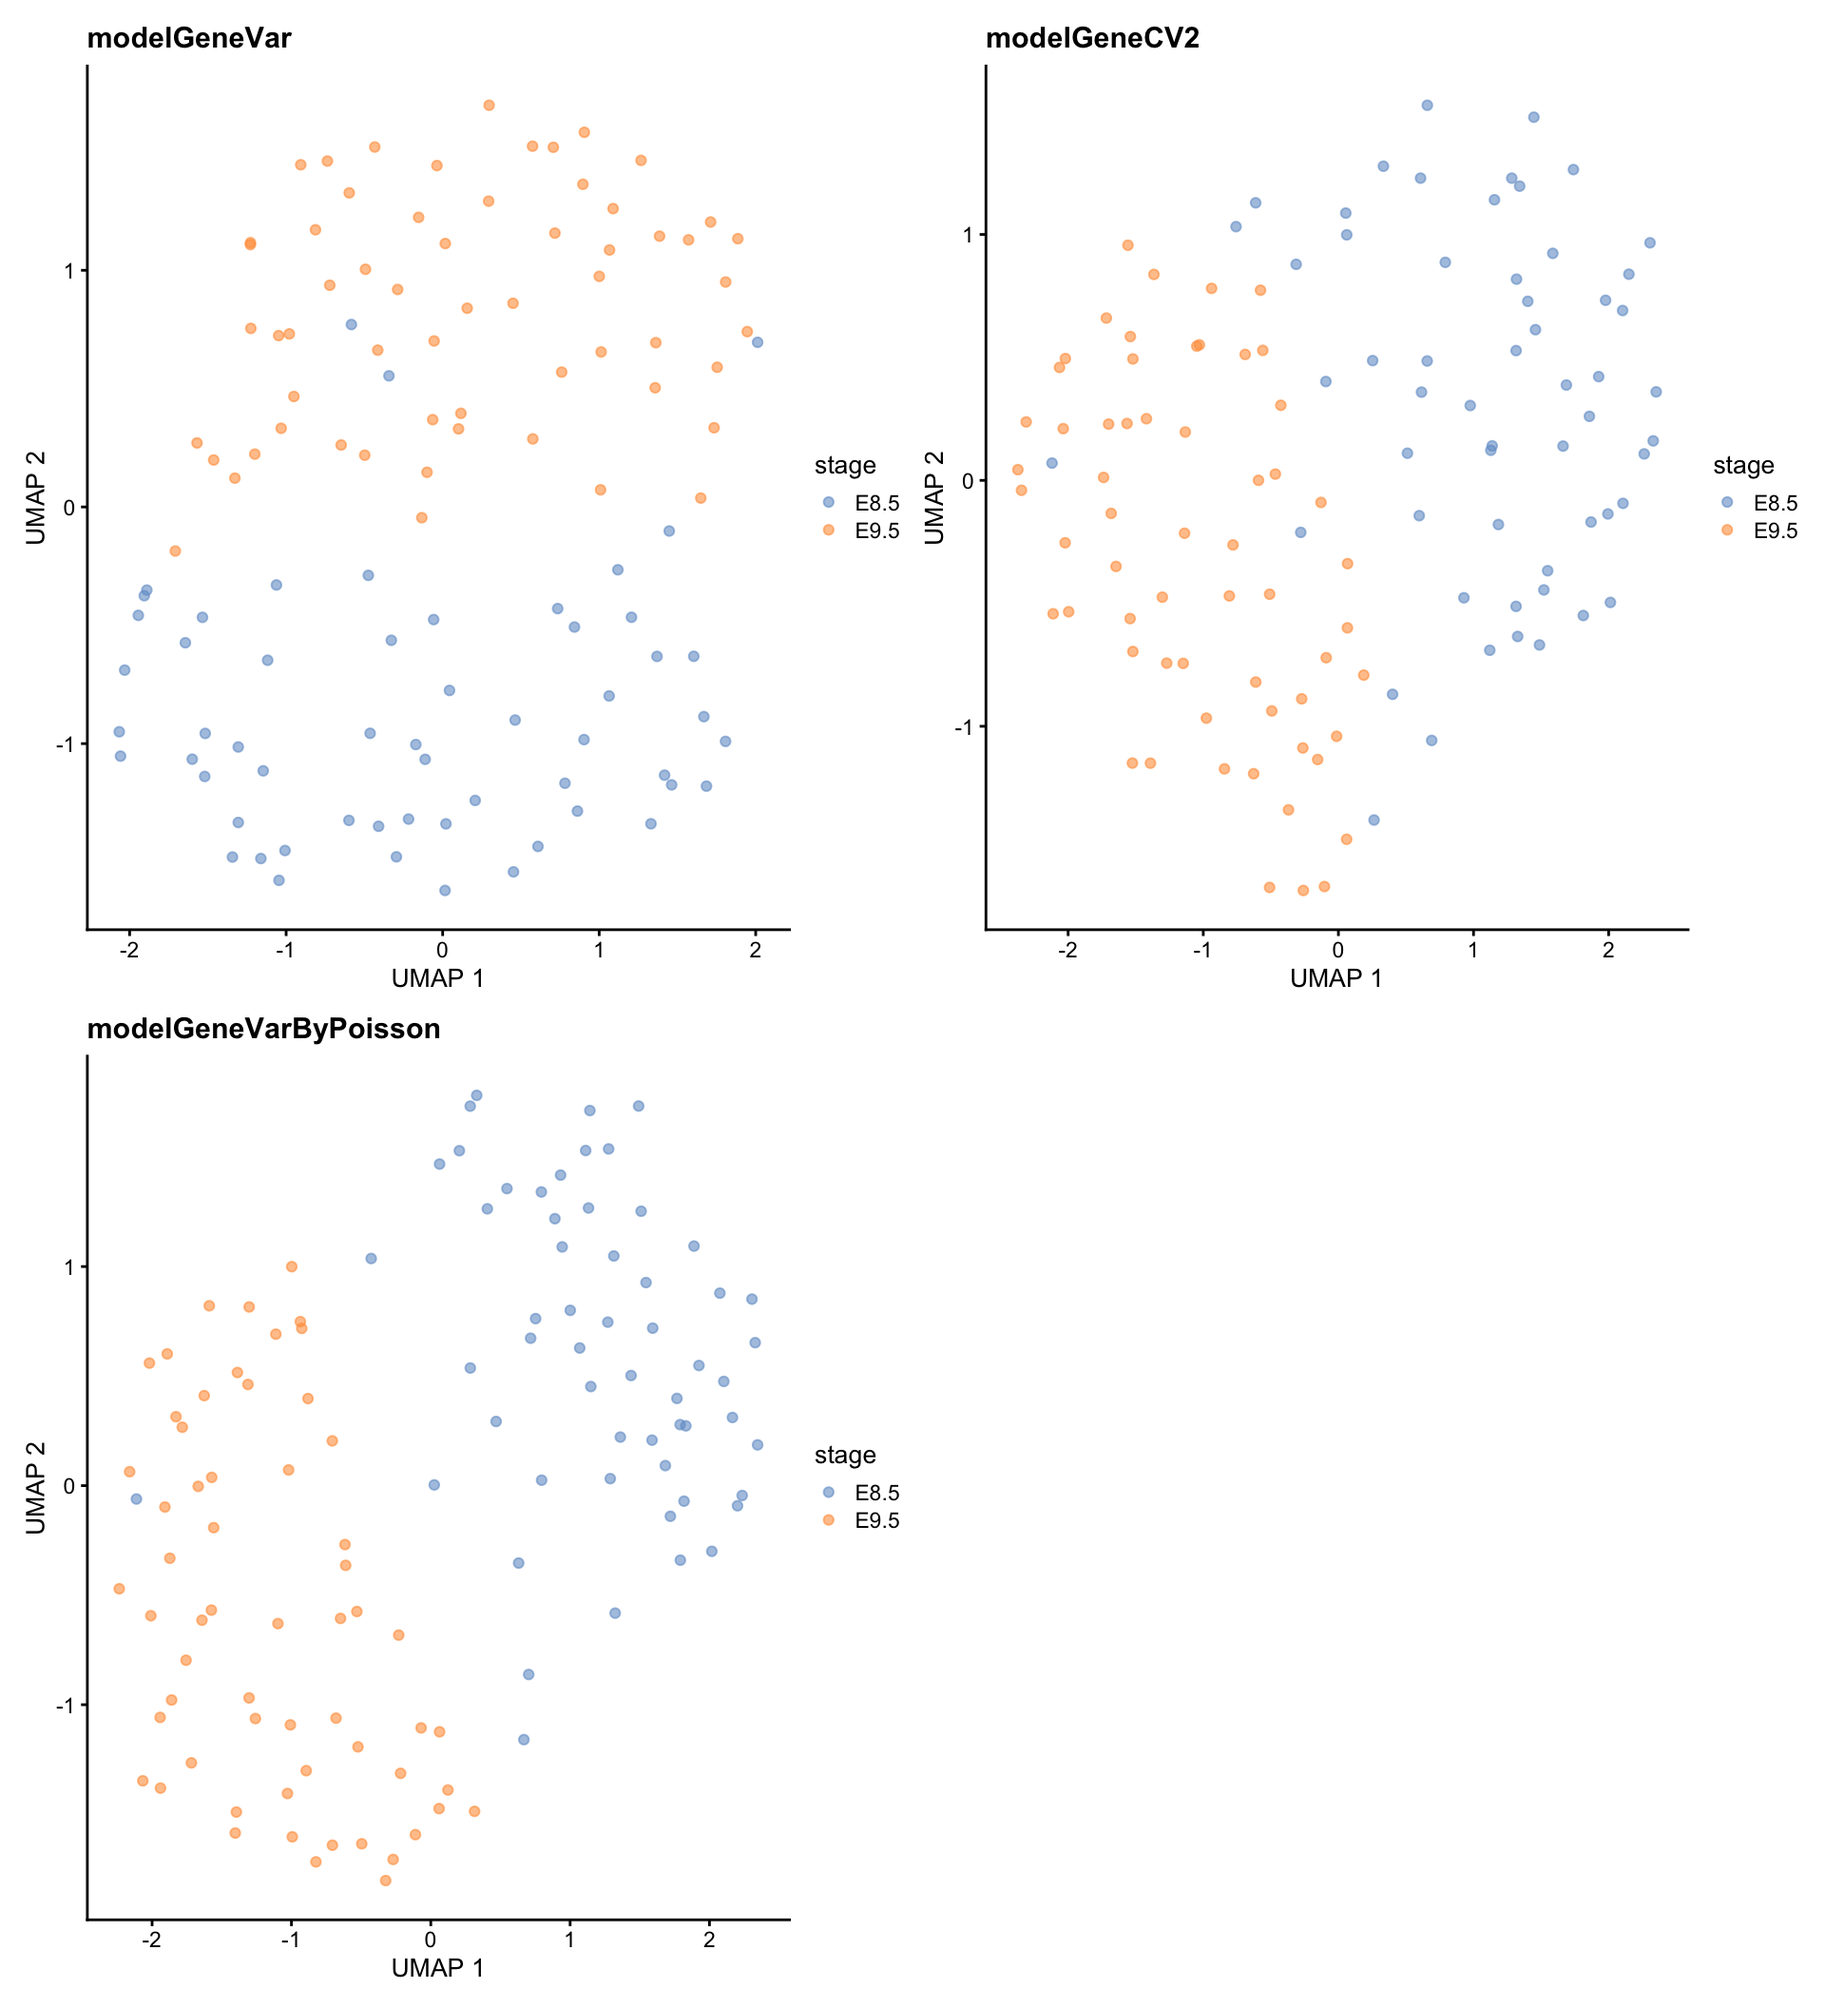
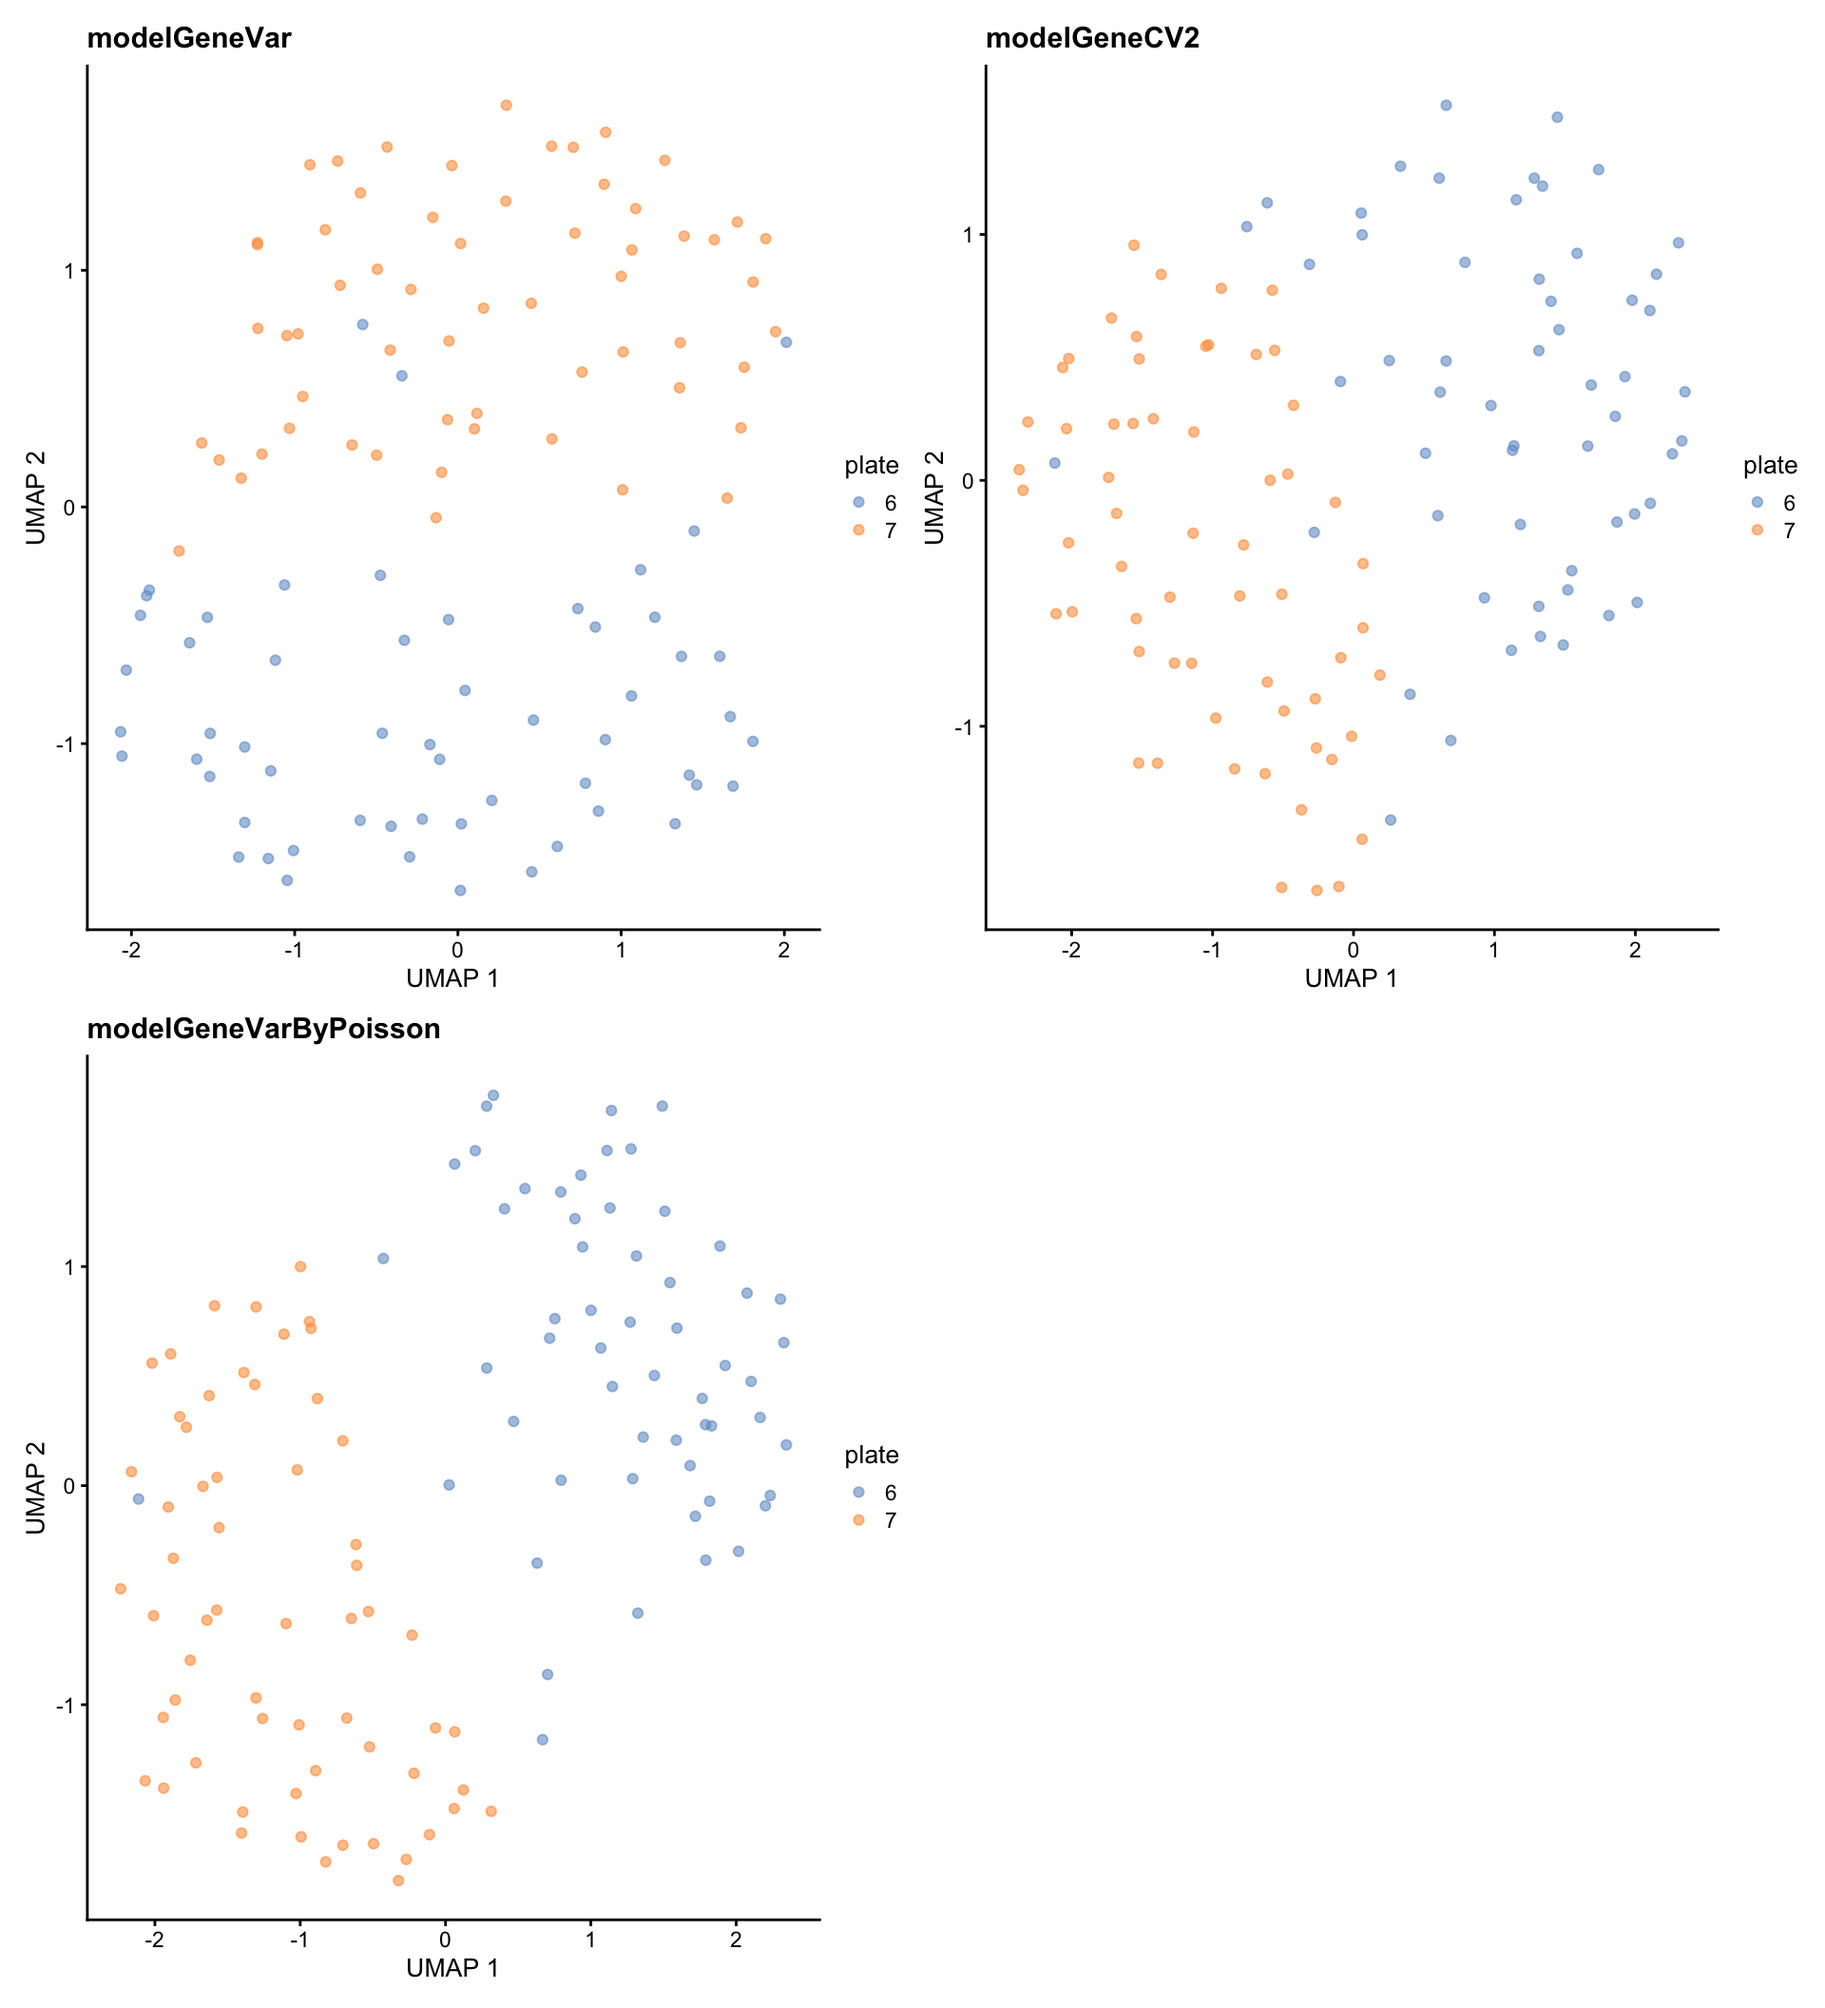
Build

diff --git a/docs/03-feature-selection.html b/docs/03-feature-selection.html
@@ -556,16 +556,16 @@ This reproducible <a href="http://rmarkdown.rstudio.com">R Markdown</a> analysis
 <div class="panel panel-default">
 <div class="panel-heading">
 <p class="panel-title">
-<a data-toggle="collapse" data-parent="#workflowr-checks" href="#strongRepositoryversionstrong62e04e3"> <span class="glyphicon glyphicon-ok text-success" aria-hidden="true"></span> <strong>Repository version:</strong> 62e04e3 </a>
+<a data-toggle="collapse" data-parent="#workflowr-checks" href="#strongRepositoryversionstrong5cf5987"> <span class="glyphicon glyphicon-ok text-success" aria-hidden="true"></span> <strong>Repository version:</strong> 5cf5987 </a>
 </p>
 </div>
-<div id="strongRepositoryversionstrong62e04e3" class="panel-collapse collapse">
+<div id="strongRepositoryversionstrong5cf5987" class="panel-collapse collapse">
 <div class="panel-body">
 <p>
 Great! You are using Git for version control. Tracking code development and connecting the code version to the results is critical for reproducibility.
 </p>
 <p>
-The results in this page were generated with repository version 62e04e3. See the <em>Past versions</em> tab to see a history of the changes made to the R Markdown and HTML files.
+The results in this page were generated with repository version 5cf5987. See the <em>Past versions</em> tab to see a history of the changes made to the R Markdown and HTML files.
 </p>
 <p>
 Note that you need to be careful to ensure that all relevant files for the analysis have been committed to Git prior to generating the results (you can use <code>wflow_publish</code> or <code>wflow_git_commit</code>). workflowr only checks the R Markdown file, but you know if there are other scripts or data files that it depends on. Below is the status of the Git repository when the results were generated:
@@ -632,6 +632,40 @@ Message
 </tr>
 </thead>
 <tbody>
+<tr>
+<td>
+Rmd
+</td>
+<td>
+5cf5987
+</td>
+<td>
+James Ashmore
+</td>
+<td>
+2021-04-16
+</td>
+<td>
+Build
+</td>
+</tr>
+<tr>
+<td>
+html
+</td>
+<td>
+c4b1945
+</td>
+<td>
+James Ashmore
+</td>
+<td>
+2021-04-16
+</td>
+<td>
+Build
+</td>
+</tr>
 <tr>
 <td>
 html
@@ -1097,7 +1131,7 @@ pheatmap(mat, color = col, breaks = brk)</code></pre>
   
   sce &lt;- runPCA(sce, subset_row = hvg, BSPARAM = ExactParam())
 
-  plotPCA(sce, colour_by = &quot;stage&quot;) + ggtitle(x)
+  plotPCA(sce, colour_by = &quot;plate&quot;) + ggtitle(x)
 
 })
 
@@ -1153,7 +1187,7 @@ James Ashmore
   
   sce &lt;- runTSNE(sce, dimred = &quot;PCA&quot;)
 
-  plotTSNE(sce, colour_by = &quot;stage&quot;) + ggtitle(x)
+  plotTSNE(sce, colour_by = &quot;plate&quot;) + ggtitle(x)
 
 })
 
@@ -1209,7 +1243,7 @@ James Ashmore
   
   sce &lt;- runUMAP(sce, dimred = &quot;PCA&quot;)
 
-  plotUMAP(sce, colour_by = &quot;stage&quot;) + ggtitle(x)
+  plotUMAP(sce, colour_by = &quot;plate&quot;) + ggtitle(x)
 
 })
 
@@ -1237,6 +1271,17 @@ Date
 </tr>
 </thead>
 <tbody>
+<tr>
+<td>
+62e04e3
+</td>
+<td>
+James Ashmore
+</td>
+<td>
+2021-04-16
+</td>
+</tr>
 <tr>
 <td>
 db982c5

diff --git a/docs/02-normalization.html b/docs/02-normalization.html
@@ -556,16 +556,16 @@ This reproducible <a href="http://rmarkdown.rstudio.com">R Markdown</a> analysis
 <div class="panel panel-default">
 <div class="panel-heading">
 <p class="panel-title">
-<a data-toggle="collapse" data-parent="#workflowr-checks" href="#strongRepositoryversionstrong62e04e3"> <span class="glyphicon glyphicon-ok text-success" aria-hidden="true"></span> <strong>Repository version:</strong> 62e04e3 </a>
+<a data-toggle="collapse" data-parent="#workflowr-checks" href="#strongRepositoryversionstrong5cf5987"> <span class="glyphicon glyphicon-ok text-success" aria-hidden="true"></span> <strong>Repository version:</strong> 5cf5987 </a>
 </p>
 </div>
-<div id="strongRepositoryversionstrong62e04e3" class="panel-collapse collapse">
+<div id="strongRepositoryversionstrong5cf5987" class="panel-collapse collapse">
 <div class="panel-body">
 <p>
 Great! You are using Git for version control. Tracking code development and connecting the code version to the results is critical for reproducibility.
 </p>
 <p>
-The results in this page were generated with repository version 62e04e3. See the <em>Past versions</em> tab to see a history of the changes made to the R Markdown and HTML files.
+The results in this page were generated with repository version 5cf5987. See the <em>Past versions</em> tab to see a history of the changes made to the R Markdown and HTML files.
 </p>
 <p>
 Note that you need to be careful to ensure that all relevant files for the analysis have been committed to Git prior to generating the results (you can use <code>wflow_publish</code> or <code>wflow_git_commit</code>). workflowr only checks the R Markdown file, but you know if there are other scripts or data files that it depends on. Below is the status of the Git repository when the results were generated:
@@ -632,6 +632,23 @@ Message
 </tr>
 </thead>
 <tbody>
+<tr>
+<td>
+html
+</td>
+<td>
+c4b1945
+</td>
+<td>
+James Ashmore
+</td>
+<td>
+2021-04-16
+</td>
+<td>
+Build
+</td>
+</tr>
 <tr>
 <td>
 html

diff --git a/docs/about.html b/docs/about.html
@@ -417,16 +417,16 @@ This reproducible <a href="http://rmarkdown.rstudio.com">R Markdown</a> analysis
 <div class="panel panel-default">
 <div class="panel-heading">
 <p class="panel-title">
-<a data-toggle="collapse" data-parent="#workflowr-checks" href="#strongRepositoryversionstrong62e04e3"> <span class="glyphicon glyphicon-ok text-success" aria-hidden="true"></span> <strong>Repository version:</strong> 62e04e3 </a>
+<a data-toggle="collapse" data-parent="#workflowr-checks" href="#strongRepositoryversionstrong5cf5987"> <span class="glyphicon glyphicon-ok text-success" aria-hidden="true"></span> <strong>Repository version:</strong> 5cf5987 </a>
 </p>
 </div>
-<div id="strongRepositoryversionstrong62e04e3" class="panel-collapse collapse">
+<div id="strongRepositoryversionstrong5cf5987" class="panel-collapse collapse">
 <div class="panel-body">
 <p>
 Great! You are using Git for version control. Tracking code development and connecting the code version to the results is critical for reproducibility.
 </p>
 <p>
-The results in this page were generated with repository version 62e04e3. See the <em>Past versions</em> tab to see a history of the changes made to the R Markdown and HTML files.
+The results in this page were generated with repository version 5cf5987. See the <em>Past versions</em> tab to see a history of the changes made to the R Markdown and HTML files.
 </p>
 <p>
 Note that you need to be careful to ensure that all relevant files for the analysis have been committed to Git prior to generating the results (you can use <code>wflow_publish</code> or <code>wflow_git_commit</code>). workflowr only checks the R Markdown file, but you know if there are other scripts or data files that it depends on. Below is the status of the Git repository when the results were generated:
@@ -493,6 +493,23 @@ Message
 </tr>
 </thead>
 <tbody>
+<tr>
+<td>
+html
+</td>
+<td>
+c4b1945
+</td>
+<td>
+James Ashmore
+</td>
+<td>
+2021-04-16
+</td>
+<td>
+Build
+</td>
+</tr>
 <tr>
 <td>
 html

diff --git a/docs/index.html b/docs/index.html
@@ -417,16 +417,16 @@ This reproducible <a href="http://rmarkdown.rstudio.com">R Markdown</a> analysis
 <div class="panel panel-default">
 <div class="panel-heading">
 <p class="panel-title">
-<a data-toggle="collapse" data-parent="#workflowr-checks" href="#strongRepositoryversionstrong62e04e3"> <span class="glyphicon glyphicon-ok text-success" aria-hidden="true"></span> <strong>Repository version:</strong> 62e04e3 </a>
+<a data-toggle="collapse" data-parent="#workflowr-checks" href="#strongRepositoryversionstrong5cf5987"> <span class="glyphicon glyphicon-ok text-success" aria-hidden="true"></span> <strong>Repository version:</strong> 5cf5987 </a>
 </p>
 </div>
-<div id="strongRepositoryversionstrong62e04e3" class="panel-collapse collapse">
+<div id="strongRepositoryversionstrong5cf5987" class="panel-collapse collapse">
 <div class="panel-body">
 <p>
 Great! You are using Git for version control. Tracking code development and connecting the code version to the results is critical for reproducibility.
 </p>
 <p>
-The results in this page were generated with repository version 62e04e3. See the <em>Past versions</em> tab to see a history of the changes made to the R Markdown and HTML files.
+The results in this page were generated with repository version 5cf5987. See the <em>Past versions</em> tab to see a history of the changes made to the R Markdown and HTML files.
 </p>
 <p>
 Note that you need to be careful to ensure that all relevant files for the analysis have been committed to Git prior to generating the results (you can use <code>wflow_publish</code> or <code>wflow_git_commit</code>). workflowr only checks the R Markdown file, but you know if there are other scripts or data files that it depends on. Below is the status of the Git repository when the results were generated:
@@ -493,6 +493,23 @@ Message
 </tr>
 </thead>
 <tbody>
+<tr>
+<td>
+html
+</td>
+<td>
+c4b1945
+</td>
+<td>
+James Ashmore
+</td>
+<td>
+2021-04-16
+</td>
+<td>
+Build
+</td>
+</tr>
 <tr>
 <td>
 html

diff --git a/docs/license.html b/docs/license.html
@@ -417,16 +417,16 @@ This reproducible <a href="http://rmarkdown.rstudio.com">R Markdown</a> analysis
 <div class="panel panel-default">
 <div class="panel-heading">
 <p class="panel-title">
-<a data-toggle="collapse" data-parent="#workflowr-checks" href="#strongRepositoryversionstrong62e04e3"> <span class="glyphicon glyphicon-ok text-success" aria-hidden="true"></span> <strong>Repository version:</strong> 62e04e3 </a>
+<a data-toggle="collapse" data-parent="#workflowr-checks" href="#strongRepositoryversionstrong5cf5987"> <span class="glyphicon glyphicon-ok text-success" aria-hidden="true"></span> <strong>Repository version:</strong> 5cf5987 </a>
 </p>
 </div>
-<div id="strongRepositoryversionstrong62e04e3" class="panel-collapse collapse">
+<div id="strongRepositoryversionstrong5cf5987" class="panel-collapse collapse">
 <div class="panel-body">
 <p>
 Great! You are using Git for version control. Tracking code development and connecting the code version to the results is critical for reproducibility.
 </p>
 <p>
-The results in this page were generated with repository version 62e04e3. See the <em>Past versions</em> tab to see a history of the changes made to the R Markdown and HTML files.
+The results in this page were generated with repository version 5cf5987. See the <em>Past versions</em> tab to see a history of the changes made to the R Markdown and HTML files.
 </p>
 <p>
 Note that you need to be careful to ensure that all relevant files for the analysis have been committed to Git prior to generating the results (you can use <code>wflow_publish</code> or <code>wflow_git_commit</code>). workflowr only checks the R Markdown file, but you know if there are other scripts or data files that it depends on. Below is the status of the Git repository when the results were generated:
@@ -493,6 +493,23 @@ Message
 </tr>
 </thead>
 <tbody>
+<tr>
+<td>
+html
+</td>
+<td>
+c4b1945
+</td>
+<td>
+James Ashmore
+</td>
+<td>
+2021-04-16
+</td>
+<td>
+Build
+</td>
+</tr>
 <tr>
 <td>
 html
